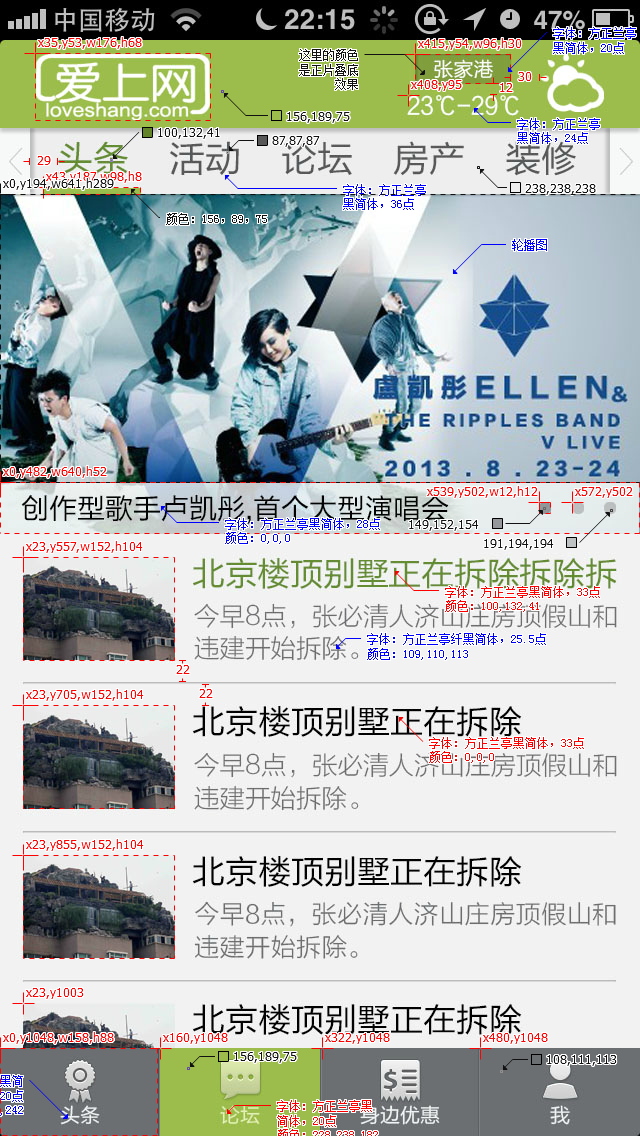
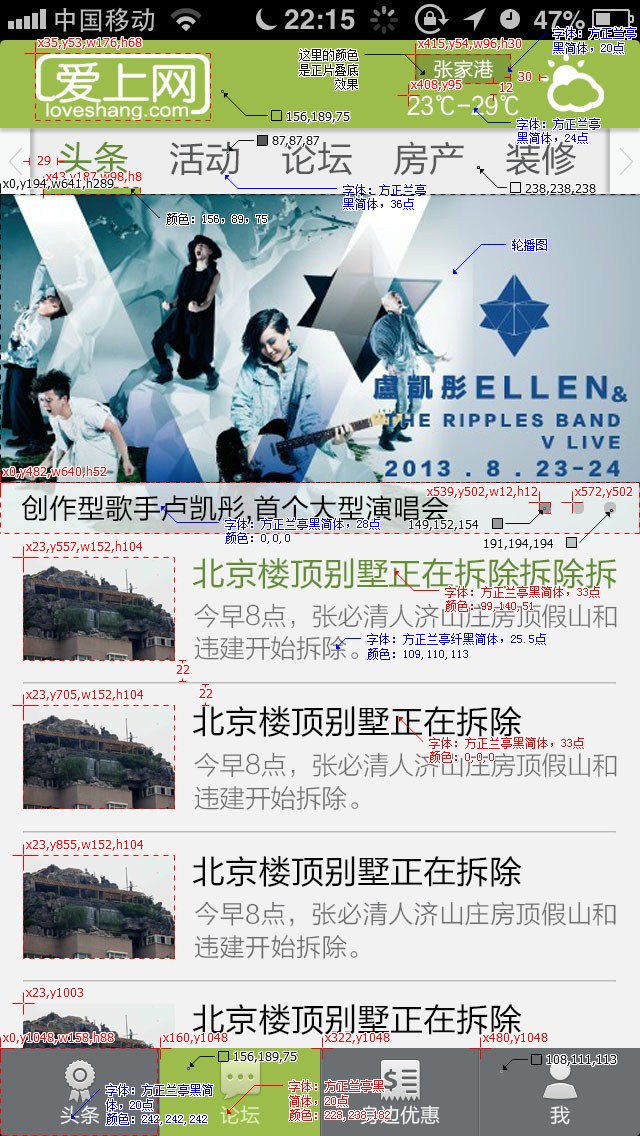
幻灯片

diff --git a/LoveShang/ViewController/LSHeadlineViewController.m b/LoveShang/ViewController/LSHeadlineViewController.m
@@ -18,6 +18,8 @@
 @property (nonatomic,assign) BOOL isLoadingData;
 @property (nonatomic,assign) NSInteger totalCount;
 @property (nonatomic,strong) NSString *navType;
+@property (nonatomic,strong) UIScrollView *slideView;
+@property (nonatomic,strong) UIPageControl *pageControl;
 @end
 
 @implementation LSHeadlineViewController
@@ -33,8 +35,20 @@
     _page = 1;
     _tableData = [[NSMutableArray alloc] init];
     
+    
+    //初始化幻灯片
+    if (!_slideView) {
+        _slideView = [[UIScrollView alloc] initWithFrame:CGRectMake(0, 44+32+1, self.view.frame.size.width, 145)];
+        _slideView.contentSize = CGSizeMake(self.view.frame.size.width * 3, 145);
+        _slideView.pagingEnabled = YES;
+        _slideView.delegate = self;
+    }
+    [self.view addSubview:_slideView];
+    [self loadAndRenderSlideView];
+    
+    
     if (!_tableView) {
-        _tableView = [[UITableView alloc] initWithFrame:CGRectMake(0, 44+32+1, self.view.frame.size.width, self.view.frame.size.height - 40 -35 - self.tabBarController.tabBar.frame.size.height) style:UITableViewStylePlain];
+        _tableView = [[UITableView alloc] initWithFrame:CGRectMake(0, 44+32+1 + 145, self.view.frame.size.width, self.view.frame.size.height - 40 -35 - self.tabBarController.tabBar.frame.size.height - 145) style:UITableViewStylePlain];
         _tableView.delegate = self;
         _tableView.dataSource = self;
     }
@@ -68,6 +82,27 @@
         });
     }];
     [self loadDataWithMore:NO isRefresh:YES];
+}
+
+-(void)loadAndRenderSlideView{
+    for (int i = 0; i < 3; i++) {
+        UIImageView *picView = [[UIImageView alloc] initWithFrame:CGRectMake(i * 320, 0, 320, 145)];
+        picView.image = [UIImage imageNamed:@"loading.png"];
+        [picView setImageWithURL:[NSURL URLWithString:@"http://img.loveshang.com/attachment/Mon_1110/92_75978_c6c69f5abe4d90c.jpg?675"] placeholderImage:[UIImage imageNamed:@"loading.png"]];
+        [_slideView addSubview:picView];
+    }
+
+//    UIView *pageControlBackGround = [[UIView alloc] initWithFrame:CGRectMake(0, 145-26, 320, 26)];
+//    pageControlBackGround.backgroundColor = [[UIColor whiteColor] setA]
+    
+    if (!_pageControl) {
+        _pageControl = [[UIPageControl alloc] initWithFrame:CGRectMake(220, 44+32+1+145 - 26, 100, 26)];
+        _pageControl.numberOfPages = 3;
+        _pageControl.pageIndicatorTintColor = [UIColor whiteColor];
+        _pageControl.currentPageIndicatorTintColor = [UIColor redColor];
+        _pageControl.currentPage = 0;
+    }
+    [self.view addSubview:_pageControl];
 }
 
 #pragma UITableViewDelegate
@@ -158,6 +193,11 @@
         NSLog(@"%@",error);
     }];
     
+}
+#pragma scrollView delegate
+- (void)scrollViewDidScroll:(UIScrollView *)scrollView{
+    NSInteger currentPage = _slideView.contentOffset.x/320;
+    _pageControl.currentPage = currentPage;
 }
 
 @end

diff --git a/LoveShang/ViewController/LSTabBarViewController.m b/LoveShang/ViewController/LSTabBarViewController.m
@@ -25,10 +25,10 @@
     LSNearbyViewController *nearbyViewController = [[LSNearbyViewController alloc] init];
     LSMyViewController *myViewController = [[LSMyViewController alloc] init];
     
-    headlineViewController.tabBarItem = [[UITabBarItem alloc] initWithTitle:@"一" image:nil tag:1];
-    fourmViewController.tabBarItem = [[UITabBarItem alloc] initWithTitle:@"二" image:nil tag:2];
-    nearbyViewController.tabBarItem = [[UITabBarItem alloc] initWithTitle:@"三" image:nil tag:3];
-    myViewController.tabBarItem = [[UITabBarItem alloc] initWithTitle:@"四" image:nil tag:4];
+    headlineViewController.tabBarItem = [[UITabBarItem alloc] initWithTitle:@"头条" image:[UIImage imageNamed:@"headline_icon.png"] tag:1];
+    fourmViewController.tabBarItem = [[UITabBarItem alloc] initWithTitle:@"论坛" image:[UIImage imageNamed:@"fourm_icon"] tag:2];
+    nearbyViewController.tabBarItem = [[UITabBarItem alloc] initWithTitle:@"身边优惠" image:[UIImage imageNamed:@"nearby_icon.png"] tag:3];
+    myViewController.tabBarItem = [[UITabBarItem alloc] initWithTitle:@"我" image:[UIImage imageNamed:@"my_icon.png"] tag:4];
     
     [viewControllerArray addObject:headlineViewController];
     [viewControllerArray addObject:fourmViewController];

diff --git a/LoveShang/ViewController/LSHeadlineViewController.h b/LoveShang/ViewController/LSHeadlineViewController.h
@@ -8,6 +8,6 @@
 
 #import "LSBaseViewController.h"
 
-@interface LSHeadlineViewController : LSBaseViewController<LSNavBarDelegate,UITableViewDataSource,UITableViewDelegate>
+@interface LSHeadlineViewController : LSBaseViewController<LSNavBarDelegate,UITableViewDataSource,UITableViewDelegate,UIScrollViewDelegate>
 
 @end
